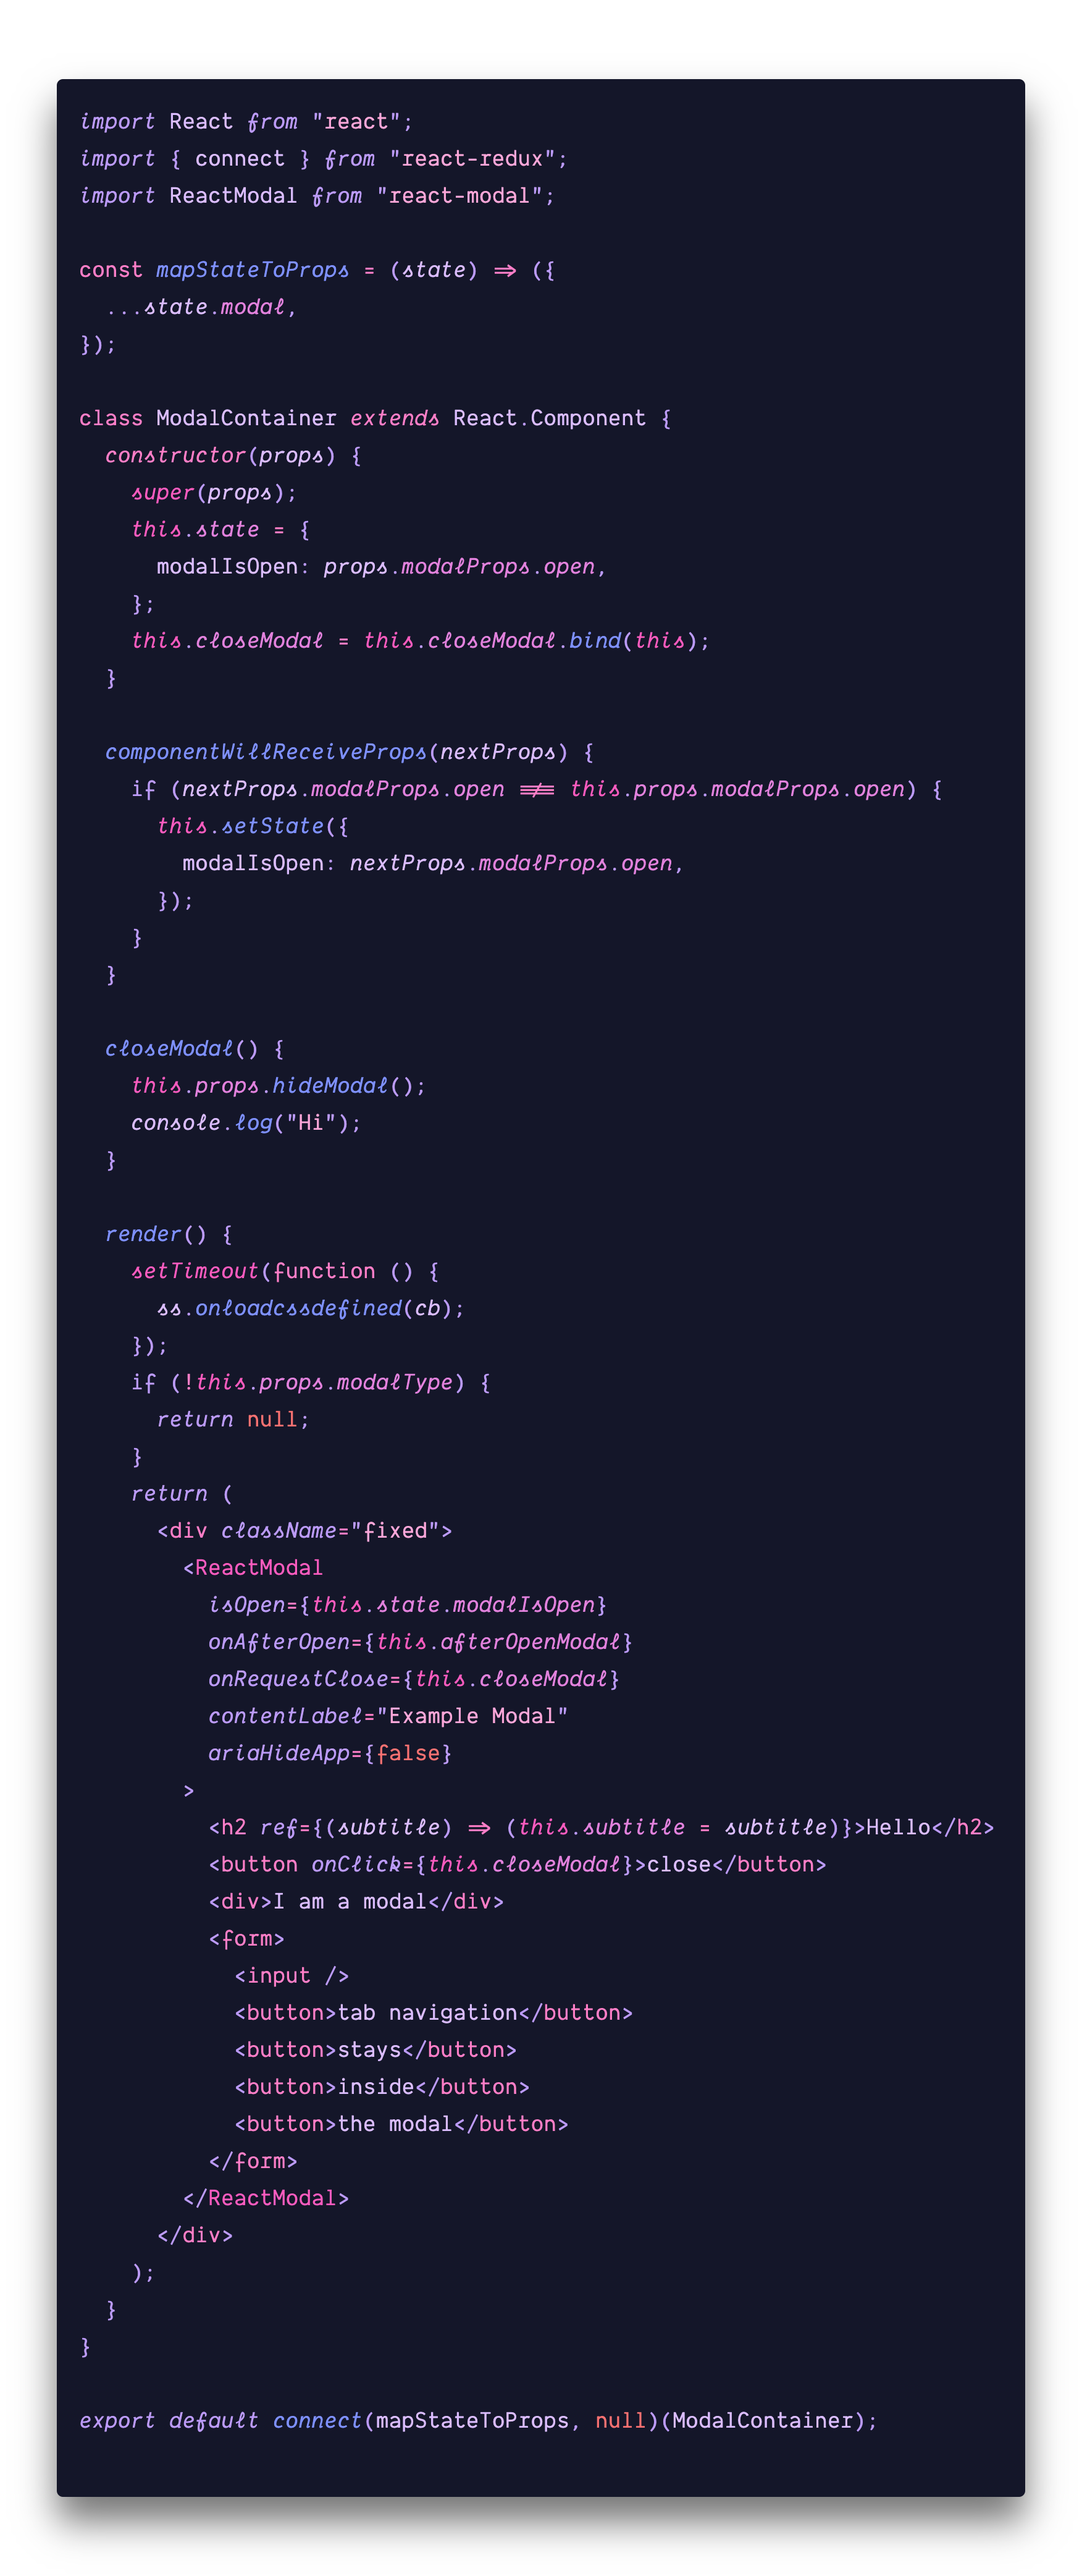
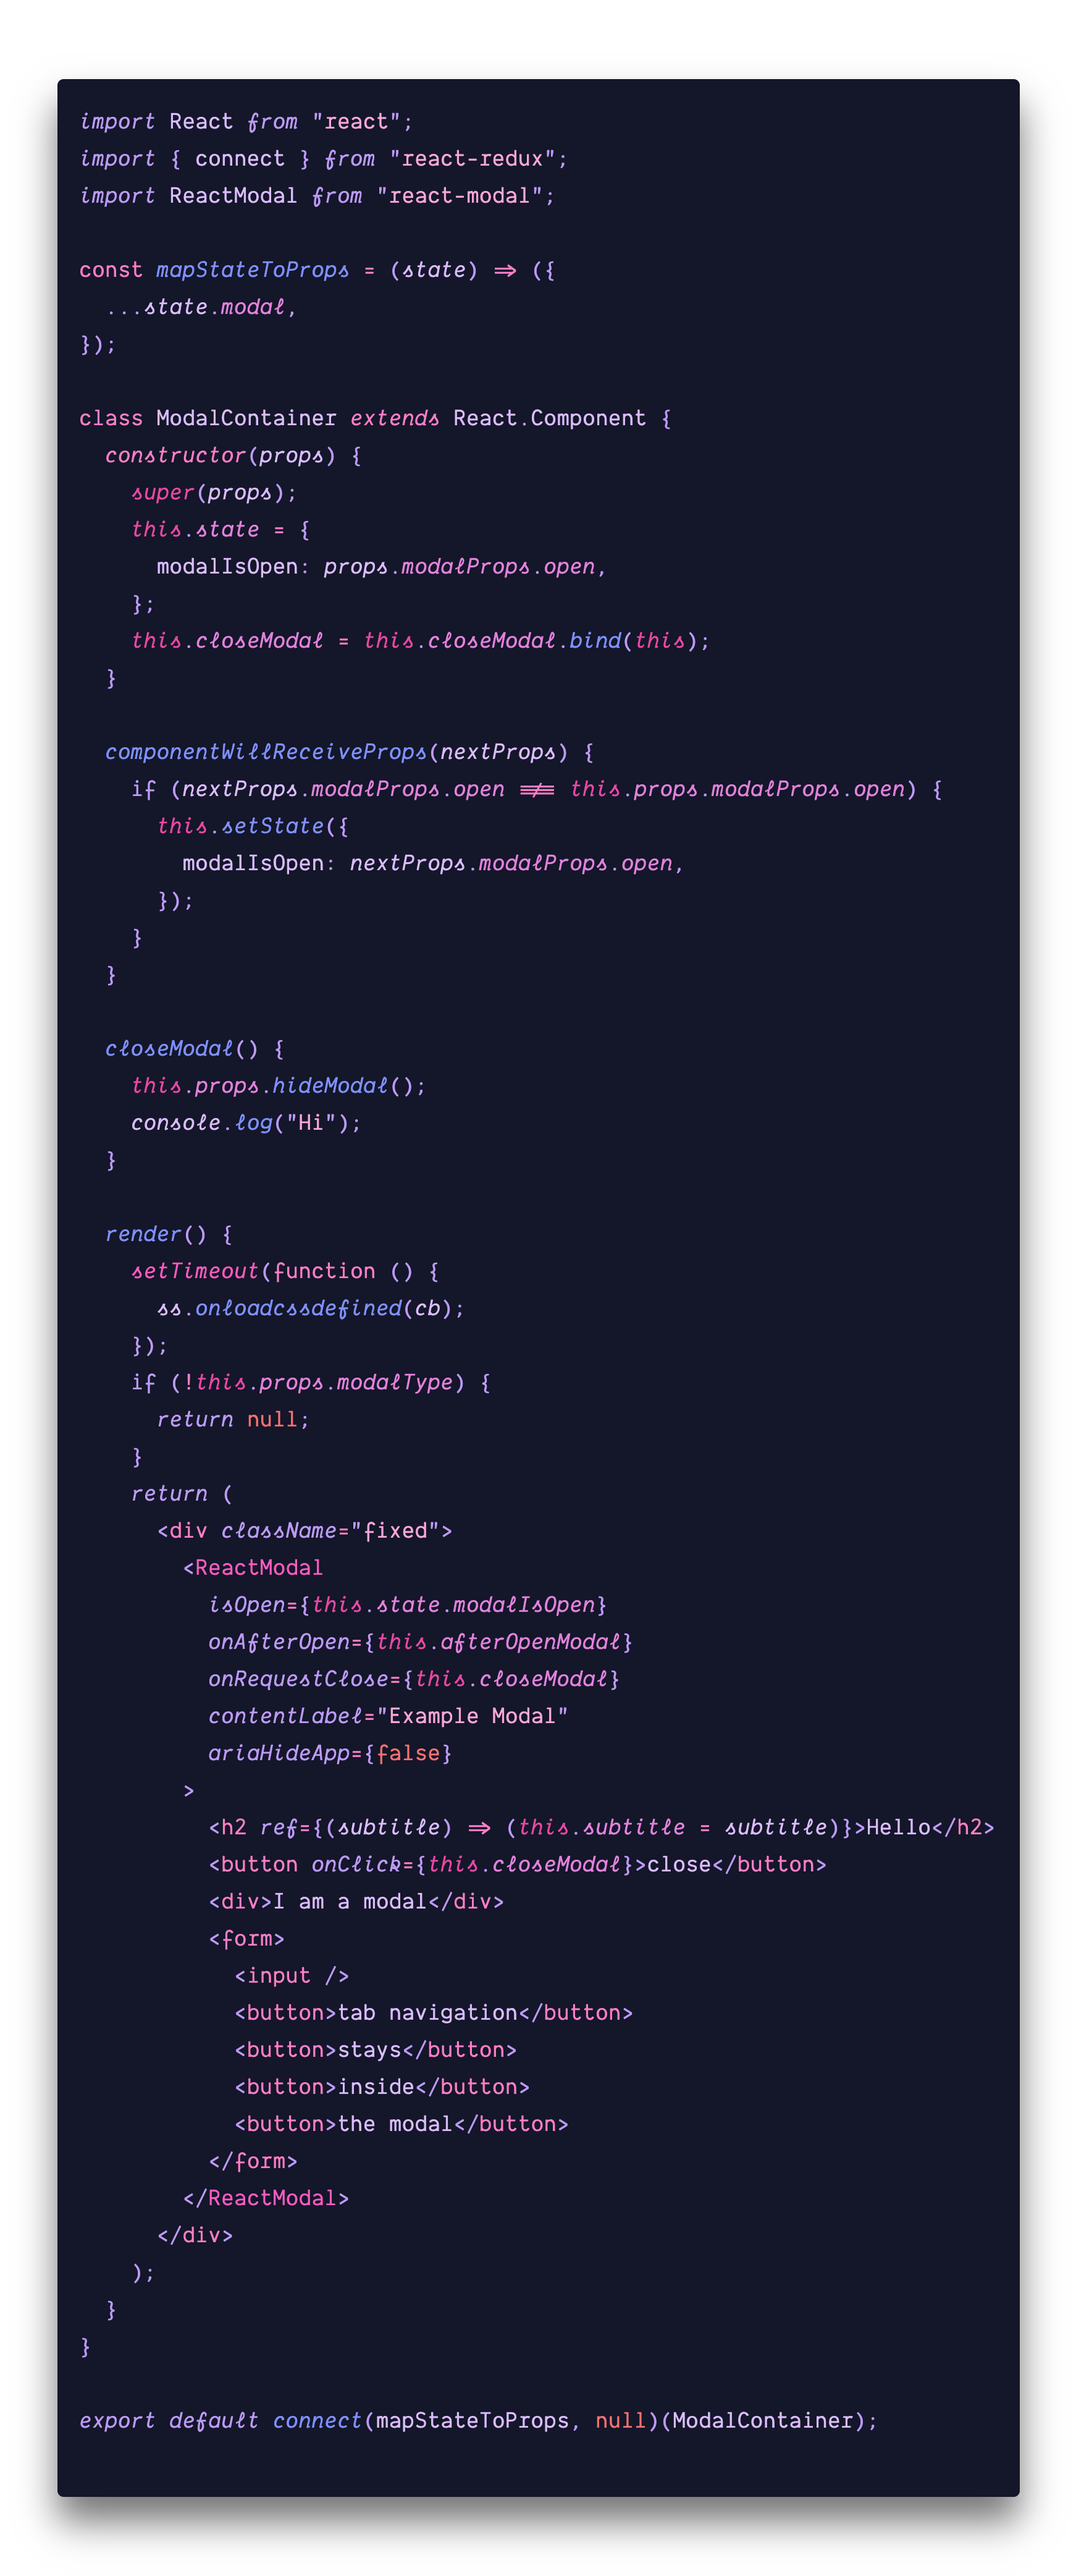
Adjust the color of variables

diff --git a/README.md b/README.md
@@ -2,9 +2,9 @@
 
 A mellow, but colorful VS Code dark theme with vibrant shades of pink and purple.
 
-My goal was to make a theme versatile enough to use any time of day that could better enable me to <s>stare at broken bits of code for hours at a time while contemplating a possible career change</s> work hard on so many very important things.
+I set out to make a dark theme versatile enough for any time of day that could better enable me to <s>stare endlessly at broken blocks of code while I contemplate possible career changes</s> work hard on so many very important things and projects.
 
-![Default Nightcall Theme](react-main.png?id=0325040521 "Default Nightcall Theme")
+![Default Nightcall Theme](https://github.com/bpat86/nightcall-vscode-theme/raw/main/react-main.png?id=1155040621 "Default Nightcall Theme")
 
 ## Installation
 
@@ -16,8 +16,8 @@ My goal was to make a theme versatile enough to use any time of day that could b
 
 ## No Italics
 
-If you wish to disable italics, select **Nightcall (No Italics)** as the theme.
-![Nightcall No Italics Theme](react-main_no-italics.png?id=0325040521 "Nightcall No Italics Theme")
+If you don't like italics (how dare you), select **Nightcall (No Italics)** as the theme.
+![Nightcall No Italics Theme](https://github.com/bpat86/nightcall-vscode-theme/raw/main/react-main_no-italics.png?id=1155040621 "Nightcall No Italics Theme")
 
 ## Separate the Editor from the Sidebar
 
@@ -103,8 +103,8 @@ These are the settings I'm using:
 
 ## Misc
 
-This is my first theme and there are many languages and parts of VS Code I don't use often or at all, so needless to say I might've missed a few things 😅. Feel free to file an issue if something doesn't appear intentional on my part, or very "Nightcall-sy" if you will.
+This is my first theme and there are many languages and parts of VS Code I don't use often (or at all), so needless to say I might've missed a few things 😅. Feel free to file an issue if something doesn't appear intentional, or very "Nightcall-sy" if you will.
 
 Accessibility considerations and prolific use of italics inspired by Sarah Drasner's [Night Owl](https://marketplace.visualstudio.com/items?itemName=sdras.night-owl) theme.
 
-_Possible TODO item: Add a "muted" color theme option._
+**TODO**: Eventually add a more _muted_ color theme option.

diff --git a/CHANGELOG.md b/CHANGELOG.md
@@ -2,6 +2,12 @@
 
 All notable changes to the "nightcall" extension will be documented in this file.
 
+## "0.4.4"
+
+- Adjusted the color of variables to a lighter color to make them more noticeable while scanning and differentiate them from other keywords
+- Adjusted the color of buttons, inputs, and dropdowns in the settings section
+- Adjusted the color of titles, file names, etc in the sidebar to more readable
+
 ## "0.4.3"
 
 - Updated the color of buttons, inputs, and dropdowns in the settings section
